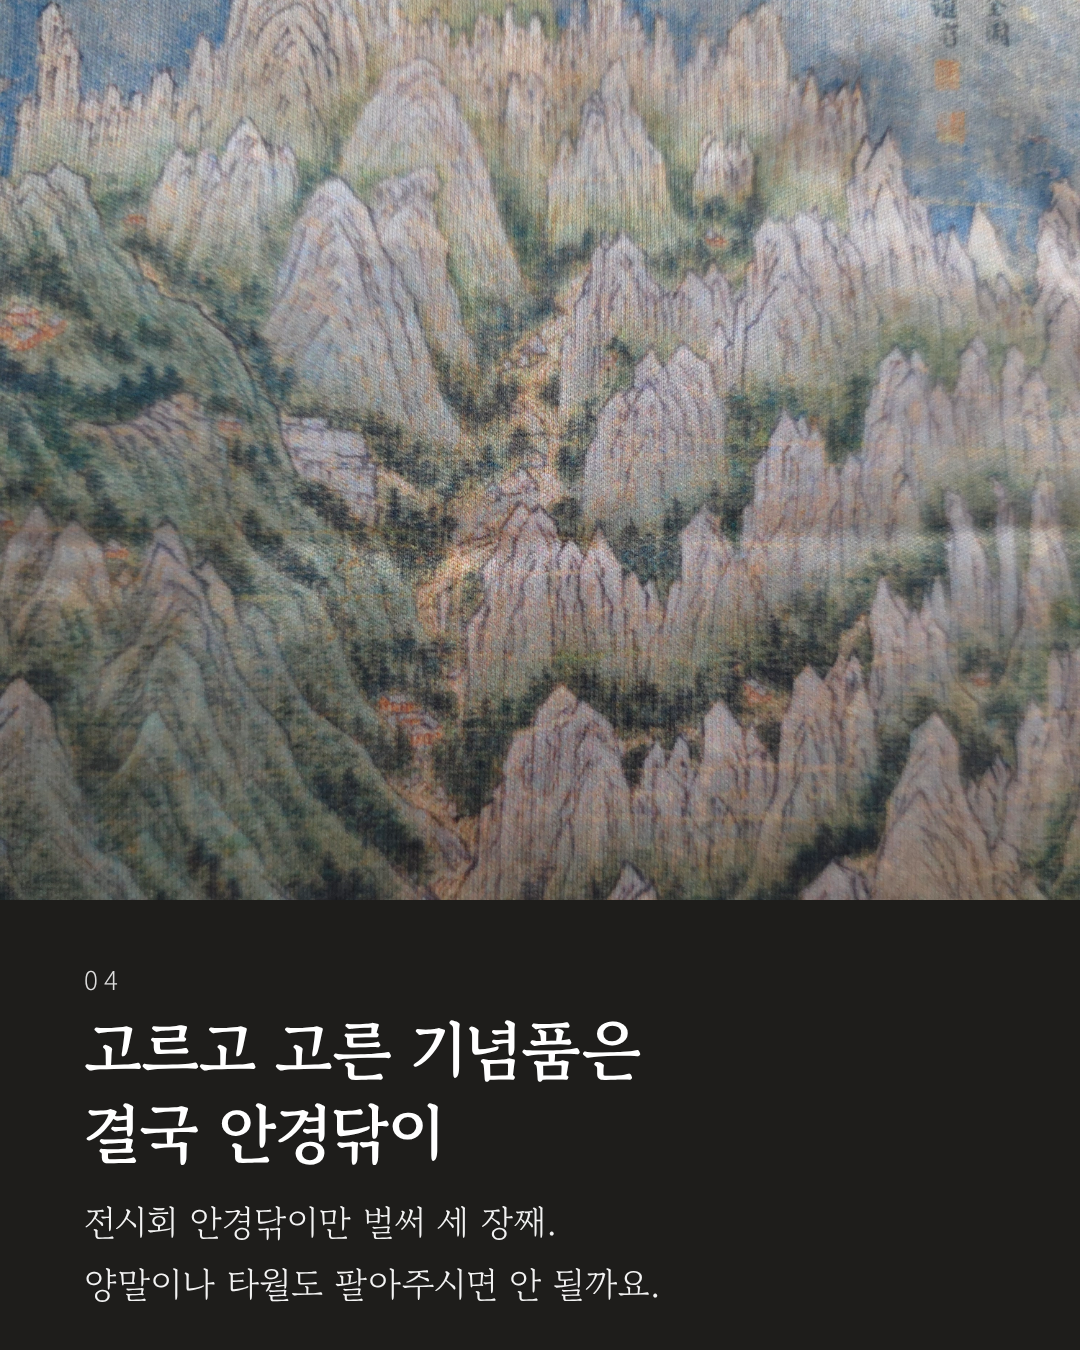
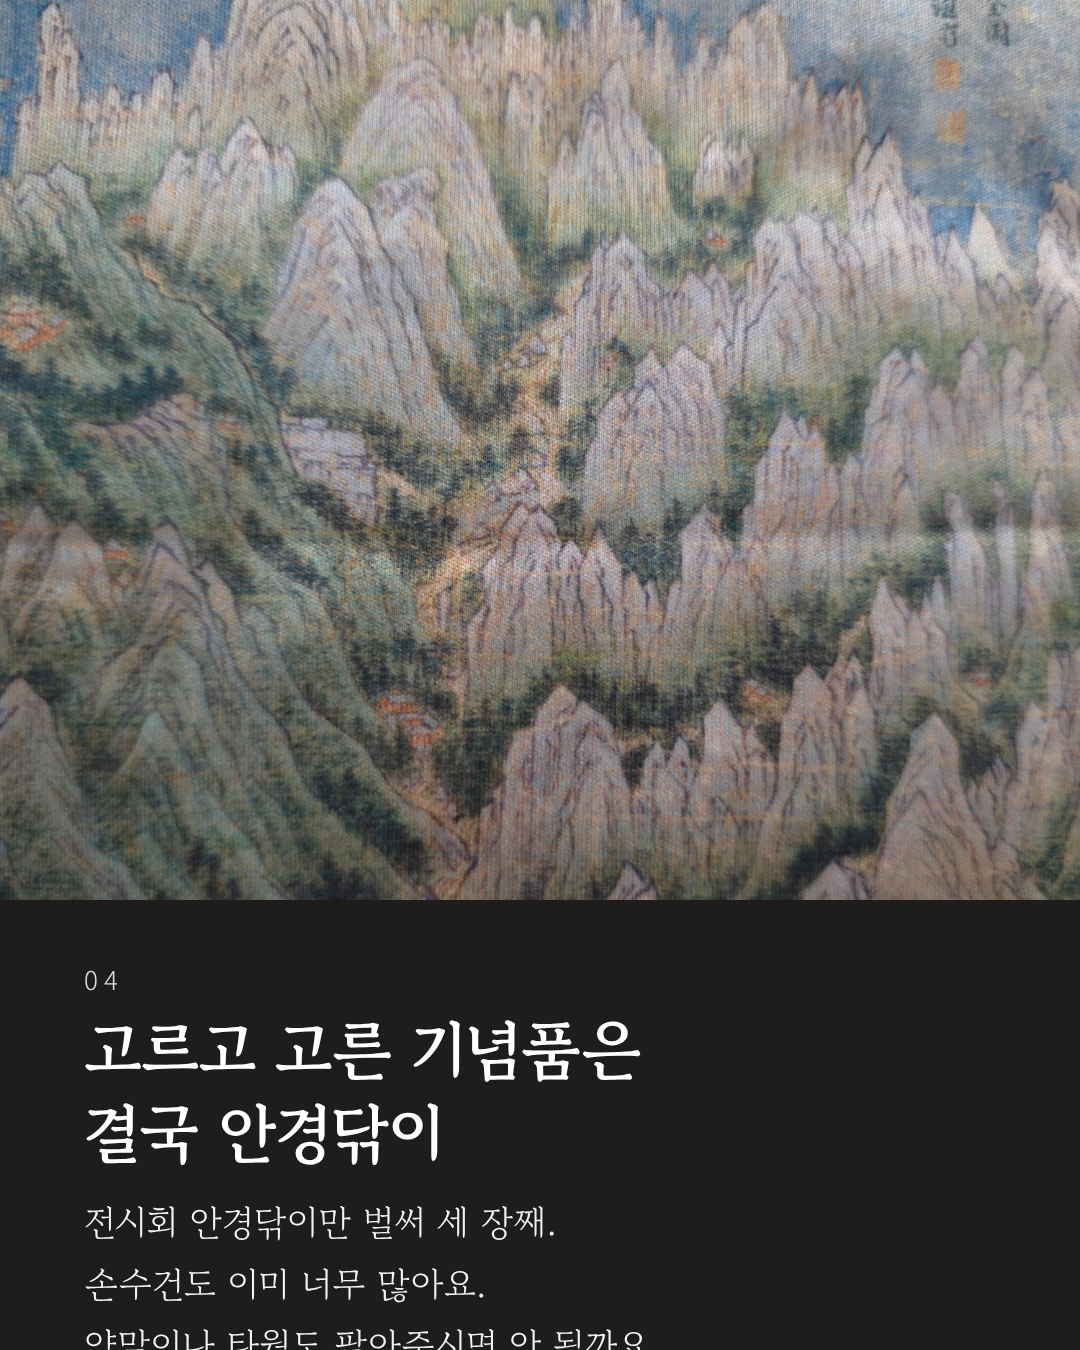
Appendix card 5: add handkerchief line
Claude-Session: https://claude.ai/code/session_01DMuKcpM29d5FHQdT8b35KP

Changed region(s): [[0.0611, 0.9333, 0.6111, 1.0]]

diff --git a/gansong/cards_extra.html b/gansong/cards_extra.html
@@ -58,7 +58,7 @@ p{font-size:36px;line-height:1.7;margin-top:28px;opacity:.95}
   <div class="txt" style="top:960px">
     <div class="num">04</div>
     <h2>고르고 고른 기념품은<br>결국 안경닦이</h2>
-    <p style="margin-top:18px">전시회 안경닦이만 벌써 세 장째.<br>양말이나 타월도 팔아주시면 안 될까요.</p>
+    <p style="margin-top:18px">전시회 안경닦이만 벌써 세 장째.<br>손수건도 이미 너무 많아요.<br>양말이나 타월도 팔아주시면 안 될까요.</p>
   </div>
 </div>
 
